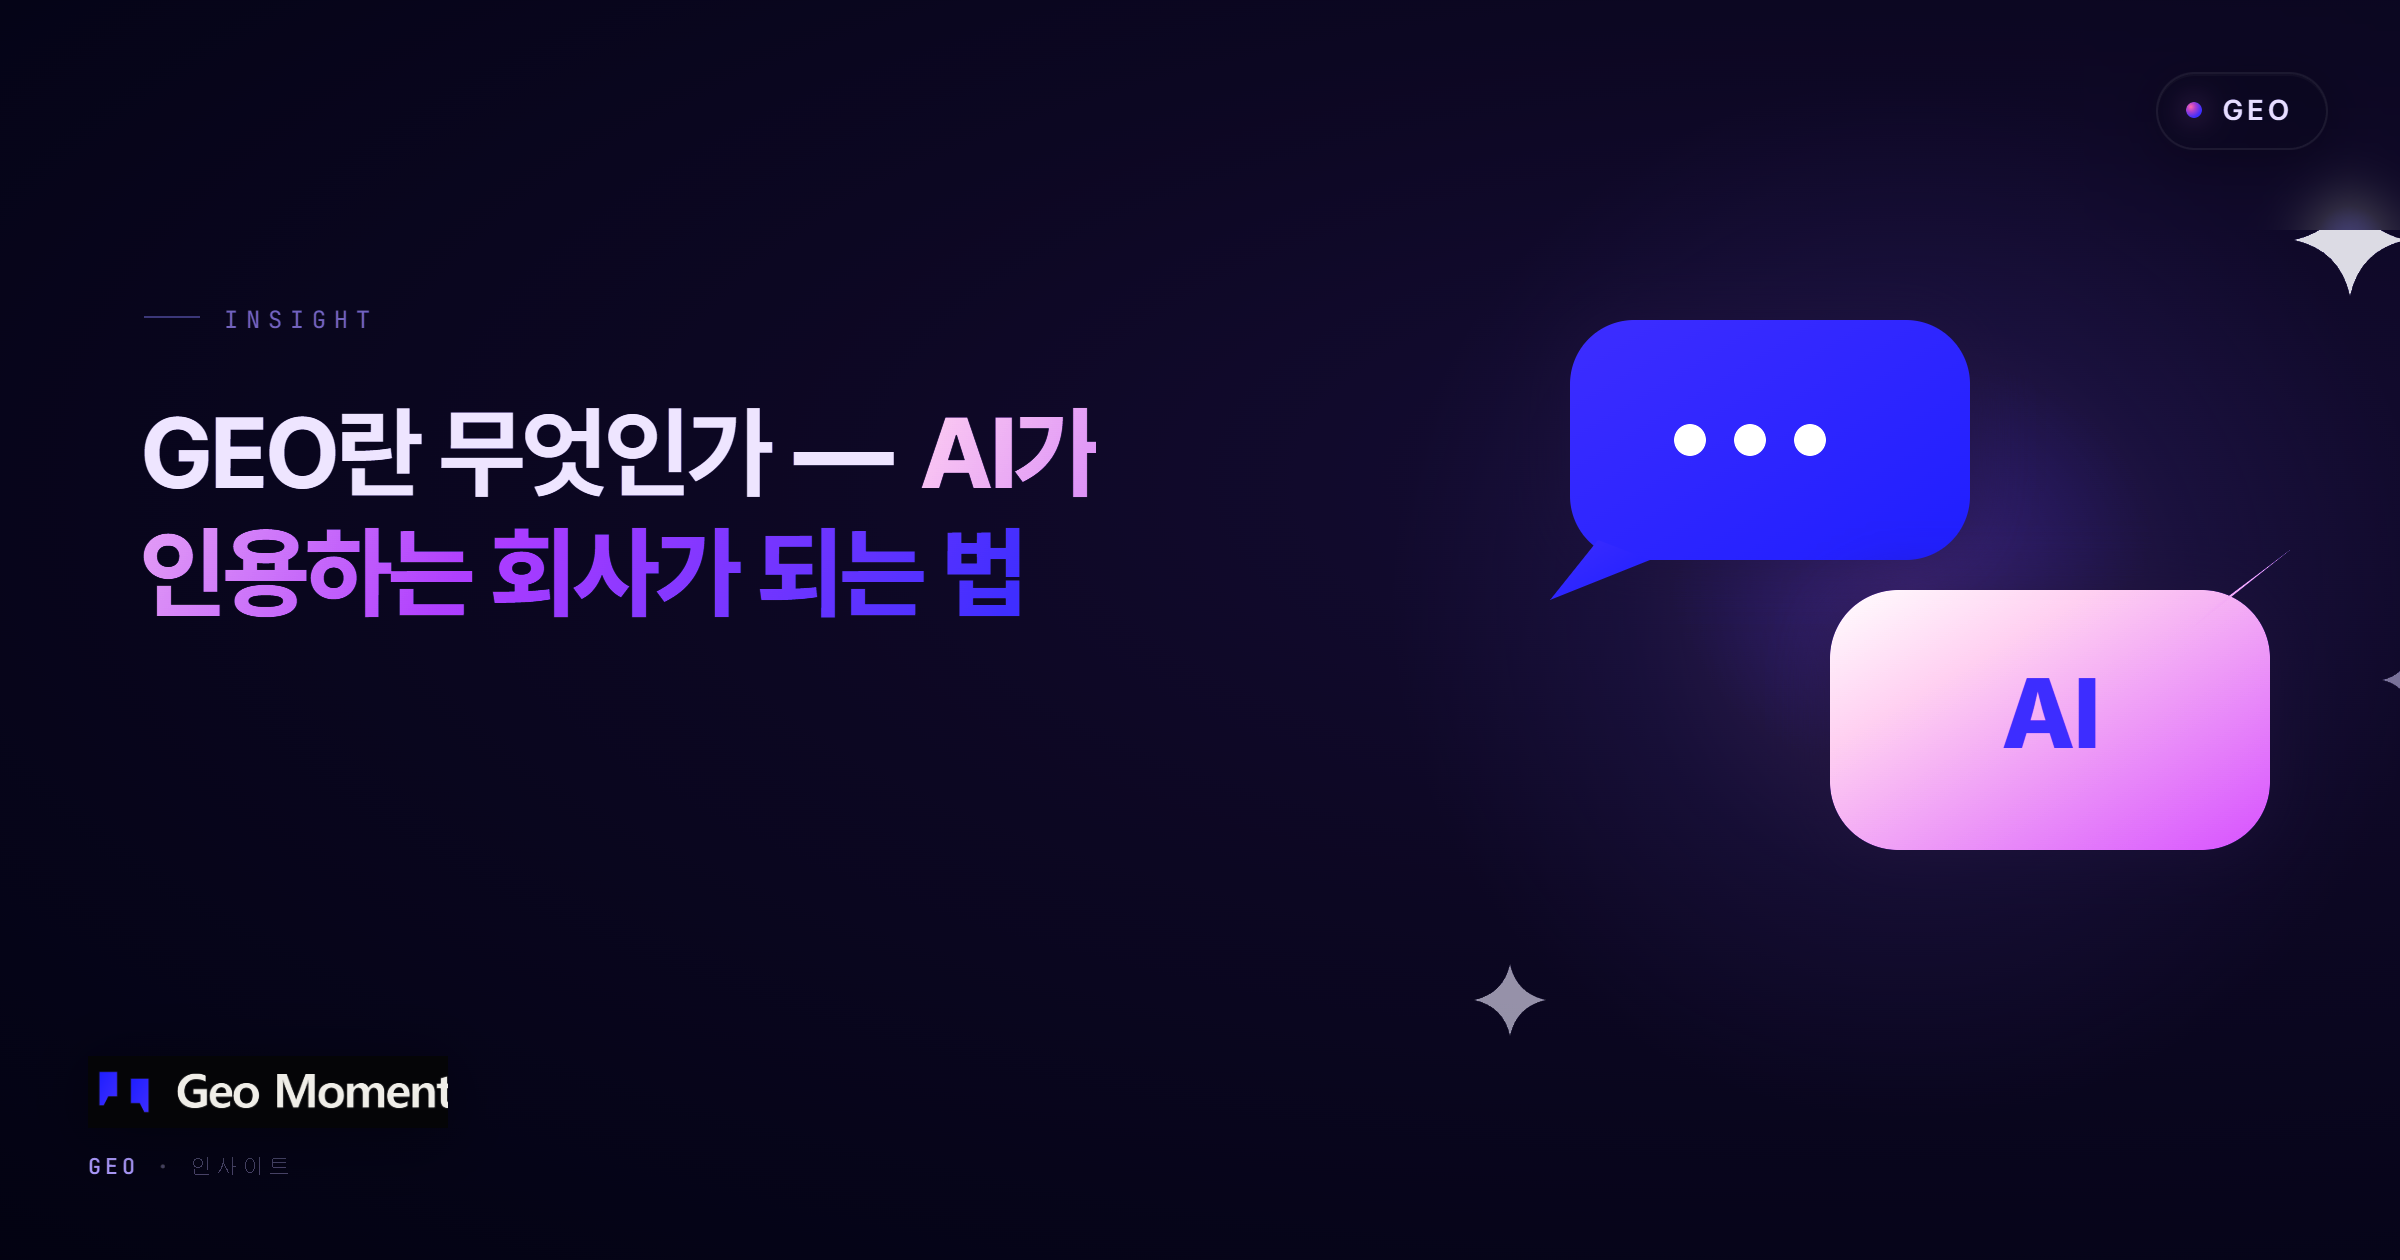
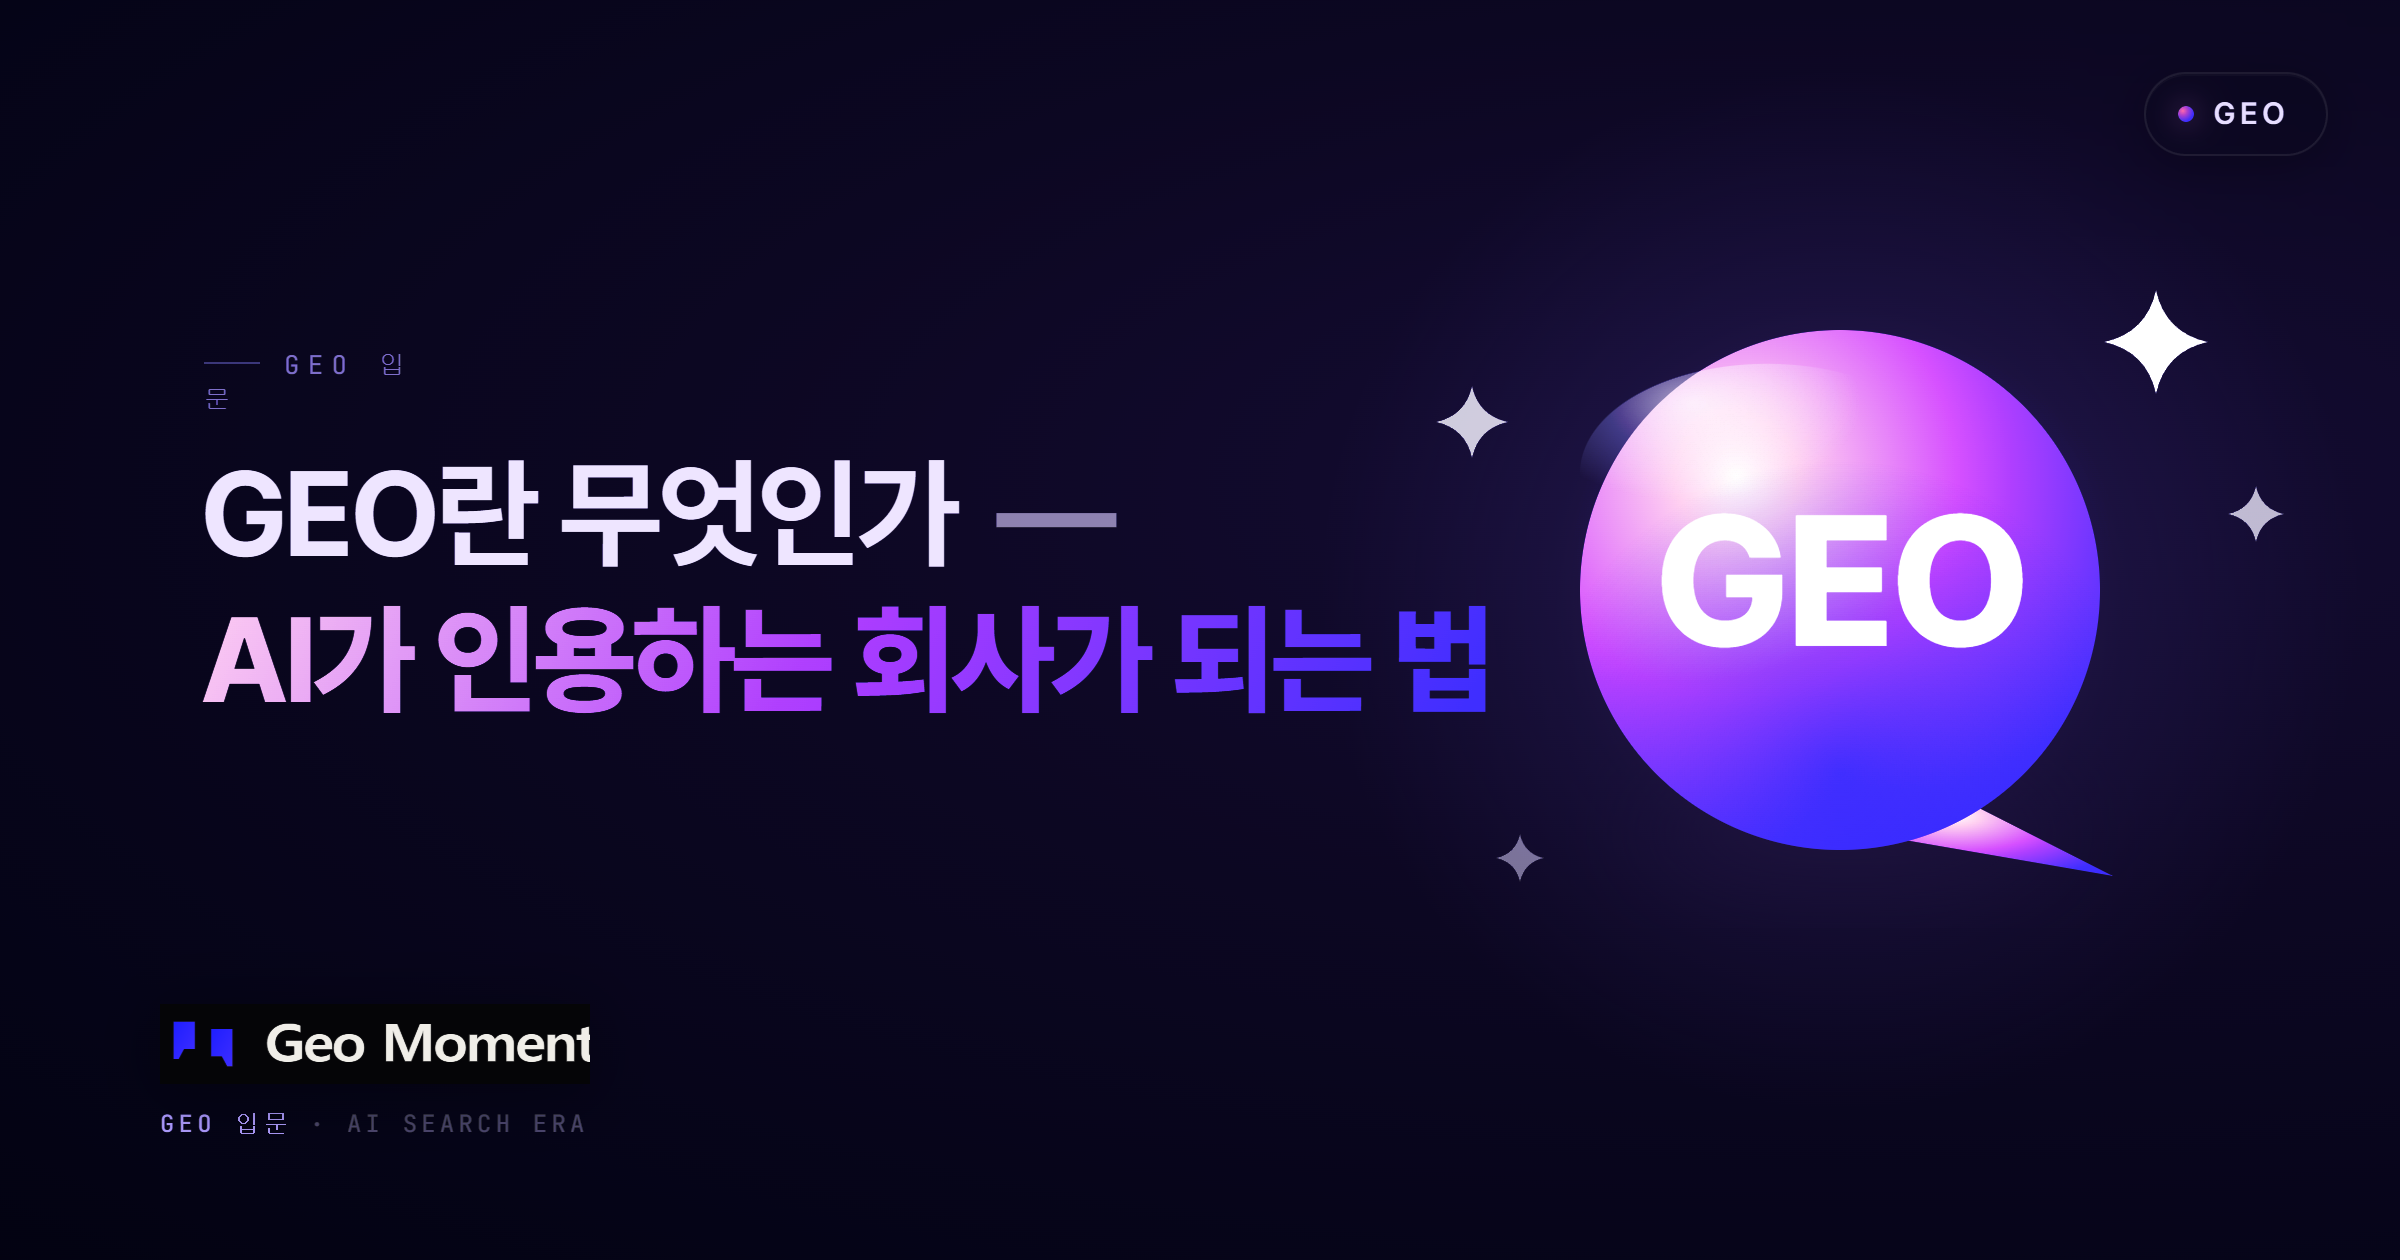
Restore in-body hero, fix read-time inflation, swap thumbnail
Thumbnail
- Replace og.png with the new version (bigger GEO bubble + clearer
  title type, supplied by owner).
- Move hero image back inside .post-main as the first child (above
  summary box), drop .post-cover at the page top. Article header
  (category / title / meta) stays at the very top of the post.

Read time
- Old calc: content | strip_html | strip_newlines | size, divided
  by 350 char/min. Problem: strip_html doesn't strip the TEXT INSIDE
  <style> blocks, so the ~6KB of scoped infographic CSS counted as
  reading content. Inflated 25분 for a ~3000자 post.
- New: split the post on <style ... </style> first, drop the CSS
  block entirely, then count chars. Bumped words-per-min from 350
  to 600 (more realistic for short, scannable Korean editorial).
- Applied to both _layouts/post.html and _layouts/blog-index.html
  for consistency between post page and blog card.

diff --git a/_layouts/post.html b/_layouts/post.html
@@ -2,8 +2,11 @@
 layout: default
 ---
 {% assign author = site.data.authors[page.author_id] | default: site.data.authors.jace %}
-{% assign words_per_min = 350 %}
-{% assign word_count = content | strip_html | strip_newlines | size %}
+{% assign words_per_min = 600 %}
+{% assign before_style = content | split: '<style' | first %}
+{% assign after_style = content | split: '</style>' | last %}
+{% assign clean_content = before_style | append: after_style %}
+{% assign word_count = clean_content | strip_html | strip_newlines | size %}
 {% assign read_time = word_count | divided_by: words_per_min | plus: 1 %}
 
 <!-- Reading progress widget — 카드형 도넛 -->
@@ -22,13 +25,7 @@ layout: default
   <button type="button" class="reading-widget-top" data-reading-top aria-label="맨 위로 가기" title="맨 위로 가기">↑</button>
 </div>
 
-<article class="blog-post{% if page.image %} blog-post--has-cover{% endif %}">
-
-  {% if page.image %}
-  <figure class="post-cover">
-    <img src="{{ page.image }}" alt="{{ page.title }} 썸네일" loading="eager">
-  </figure>
-  {% endif %}
+<article class="blog-post">
 
   <!-- Hero band: 카테고리 + 제목 + 부제 + 메타 (post-grid와 같은 그리드라 정렬 일치) -->
   <header class="post-hero">
@@ -59,6 +56,12 @@ layout: default
   <div class="post-grid">
 
     <div class="post-main">
+      {% if page.image %}
+      <figure class="post-hero-image">
+        <img src="{{ page.image }}" alt="{{ page.title }} 썸네일">
+      </figure>
+      {% endif %}
+
       {% if page.summary %}
       <aside class="post-summary" aria-label="마케터를 위한 핵심 요약">
         <div class="post-summary-head">

diff --git a/assets/css/blog.css b/assets/css/blog.css
@@ -3,8 +3,6 @@
    ========================================================================== */
 
 .blog-main { padding: var(--sp-7) 0 var(--sp-9); }
-.blog-post--has-cover ~ * .blog-main,
-.blog-main:has(.blog-post--has-cover) { padding-top: 0; }
 
 .container--narrow { max-width: 760px; margin: 0 auto; padding: 0 var(--sp-4); }
 
@@ -312,27 +310,6 @@
   padding: var(--sp-8) 0 var(--sp-7);
   margin-bottom: var(--sp-7);
   border-bottom: 1px solid var(--ink-100);
-}
-.blog-post--has-cover .post-hero { padding-top: var(--sp-5); }
-
-/* Full-bleed cover banner at the very top of the post */
-.post-cover {
-  margin: 0;
-  width: 100%;
-  max-height: 420px;
-  overflow: hidden;
-}
-.post-cover img {
-  width: 100%;
-  height: auto;
-  display: block;
-  max-height: 420px;
-  object-fit: cover;
-  object-position: center;
-}
-@media (max-width: 640px) {
-  .post-cover { max-height: 240px; }
-  .post-cover img { max-height: 240px; }
 }
 .post-grid--hero { align-items: start; }
 .post-sidebar--hero { display: block; }

diff --git a/_layouts/blog-index.html b/_layouts/blog-index.html
@@ -14,8 +14,11 @@ layout: default
     <div class="blog-grid">
       {% for post in site.posts %}
       {% assign author = site.data.authors[post.author_id] | default: site.data.authors.jace %}
-      {% assign word_count = post.content | strip_html | strip_newlines | size %}
-      {% assign read_time = word_count | divided_by: 350 | plus: 1 %}
+      {% assign before_style = post.content | split: '<style' | first %}
+      {% assign after_style = post.content | split: '</style>' | last %}
+      {% assign clean_content = before_style | append: after_style %}
+      {% assign word_count = clean_content | strip_html | strip_newlines | size %}
+      {% assign read_time = word_count | divided_by: 600 | plus: 1 %}
       <article class="blog-card">
         <a href="{{ post.url }}">
           {% if post.image %}
